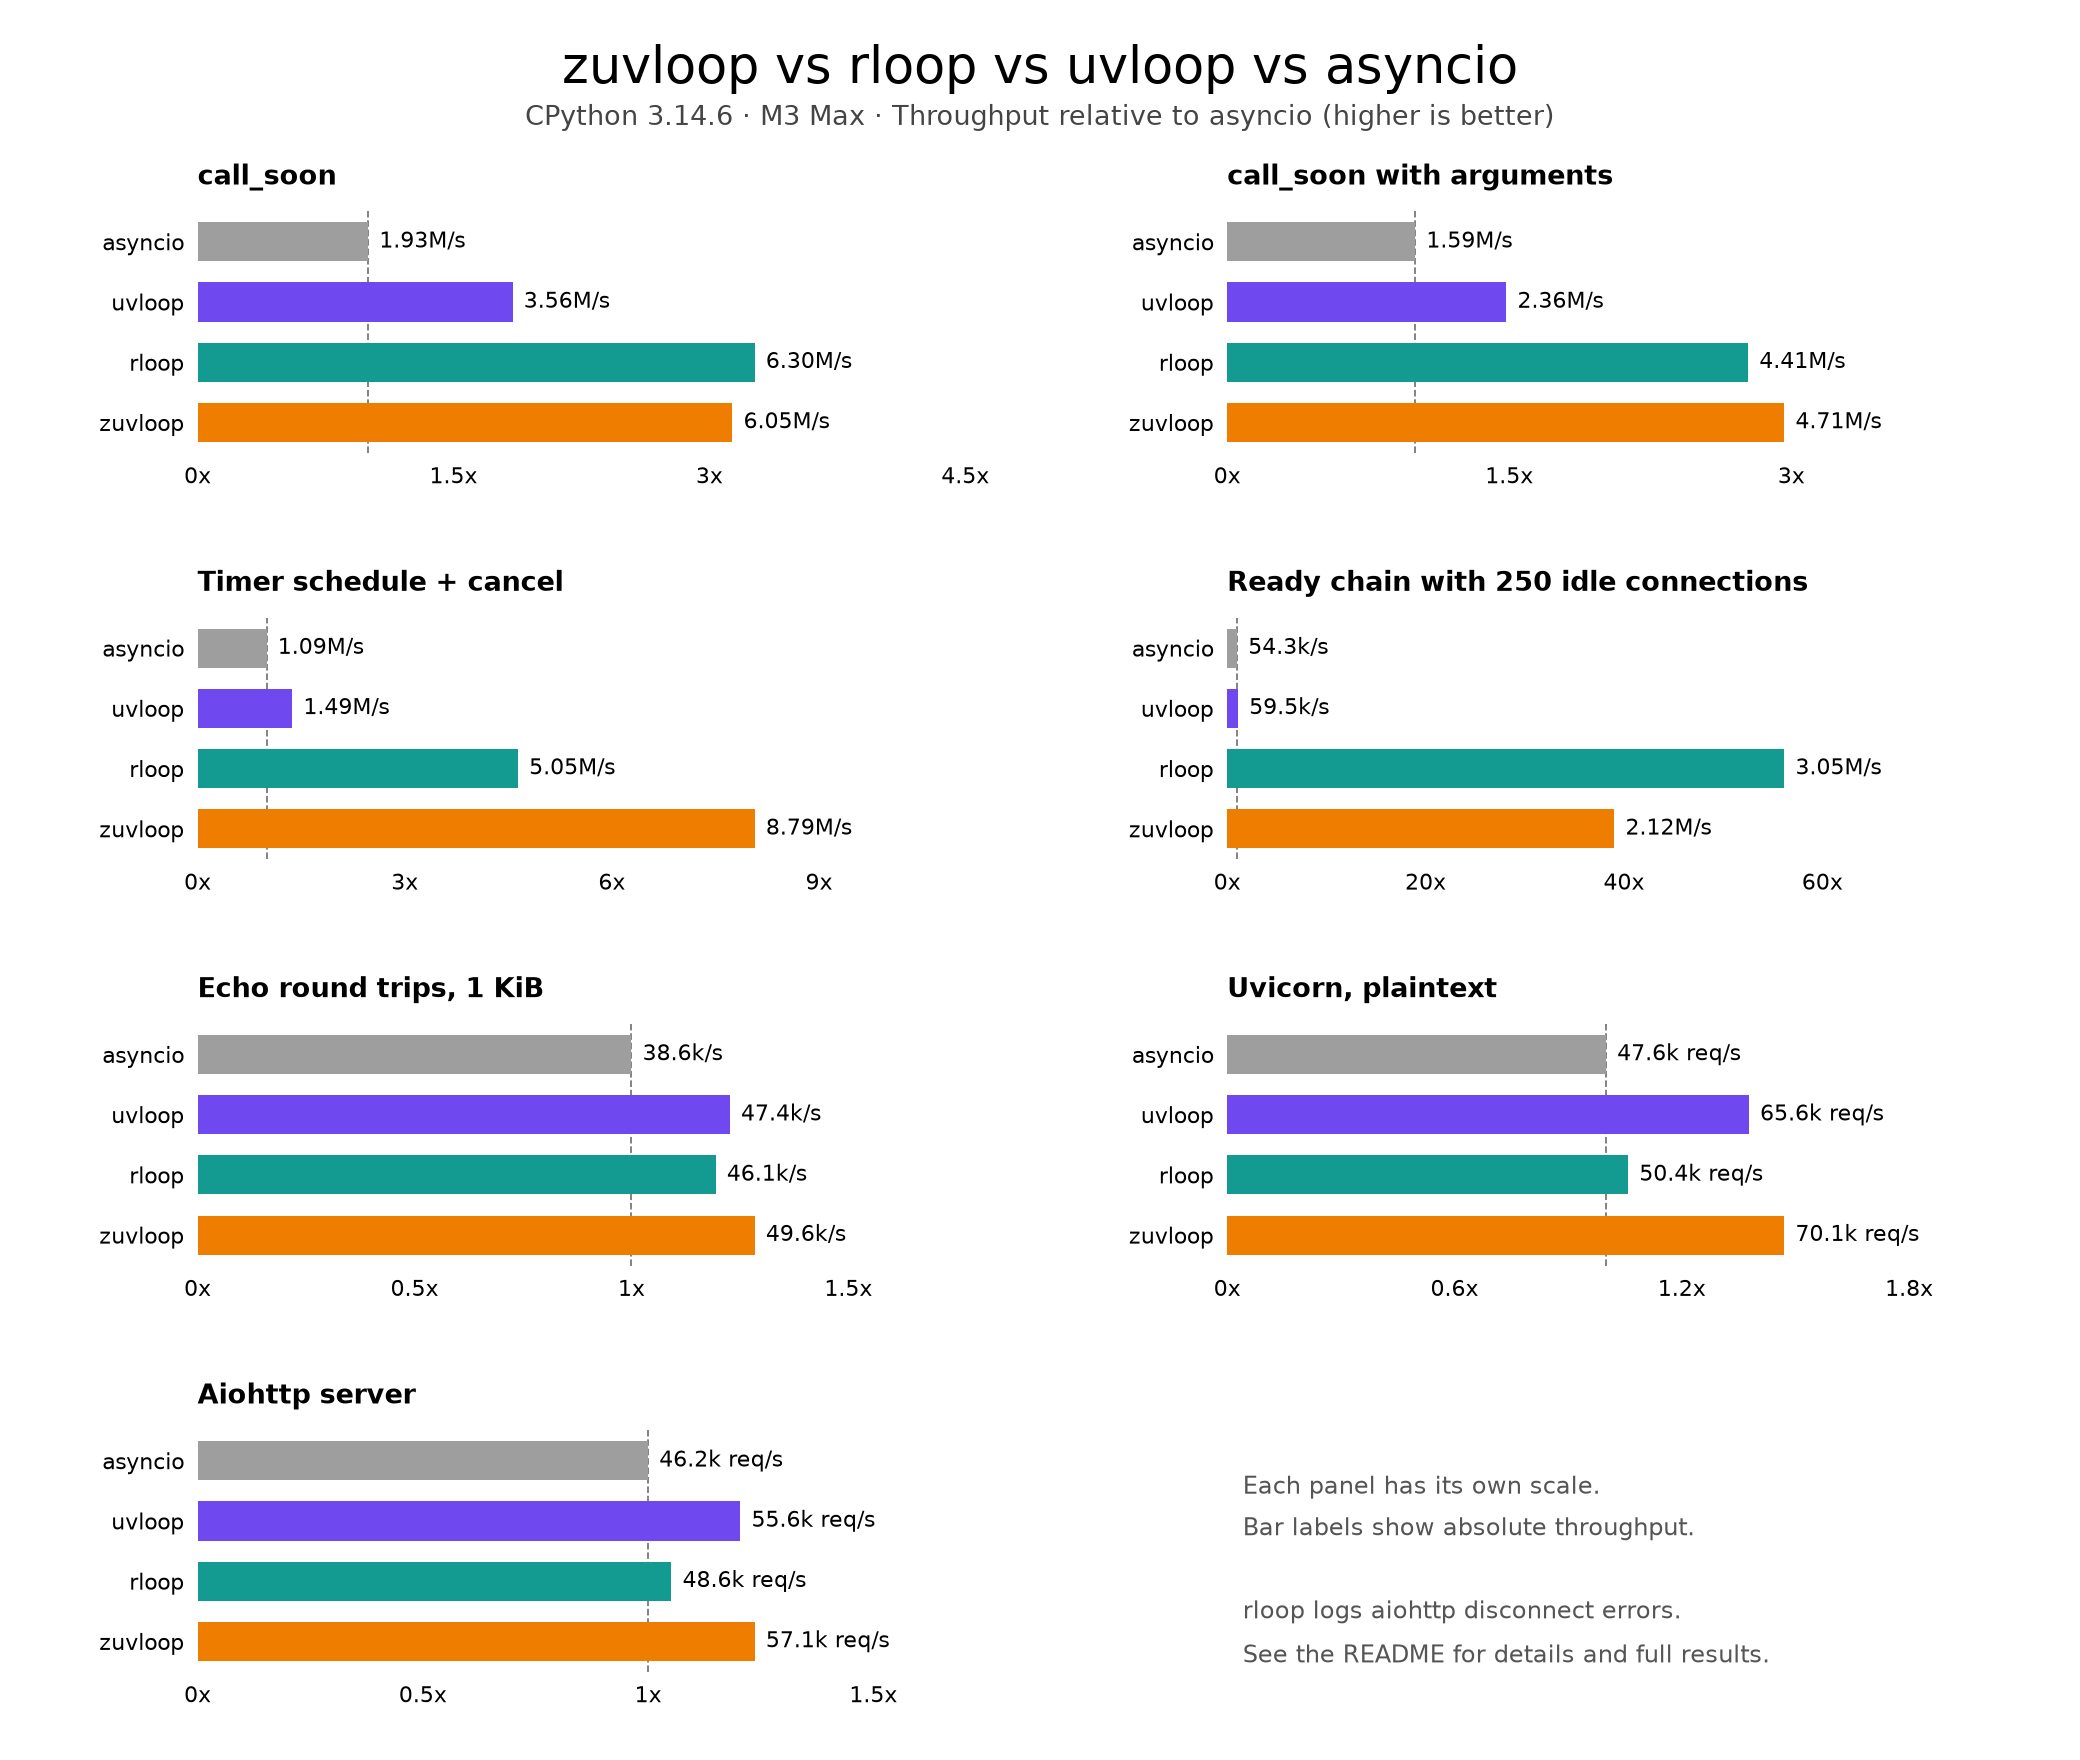
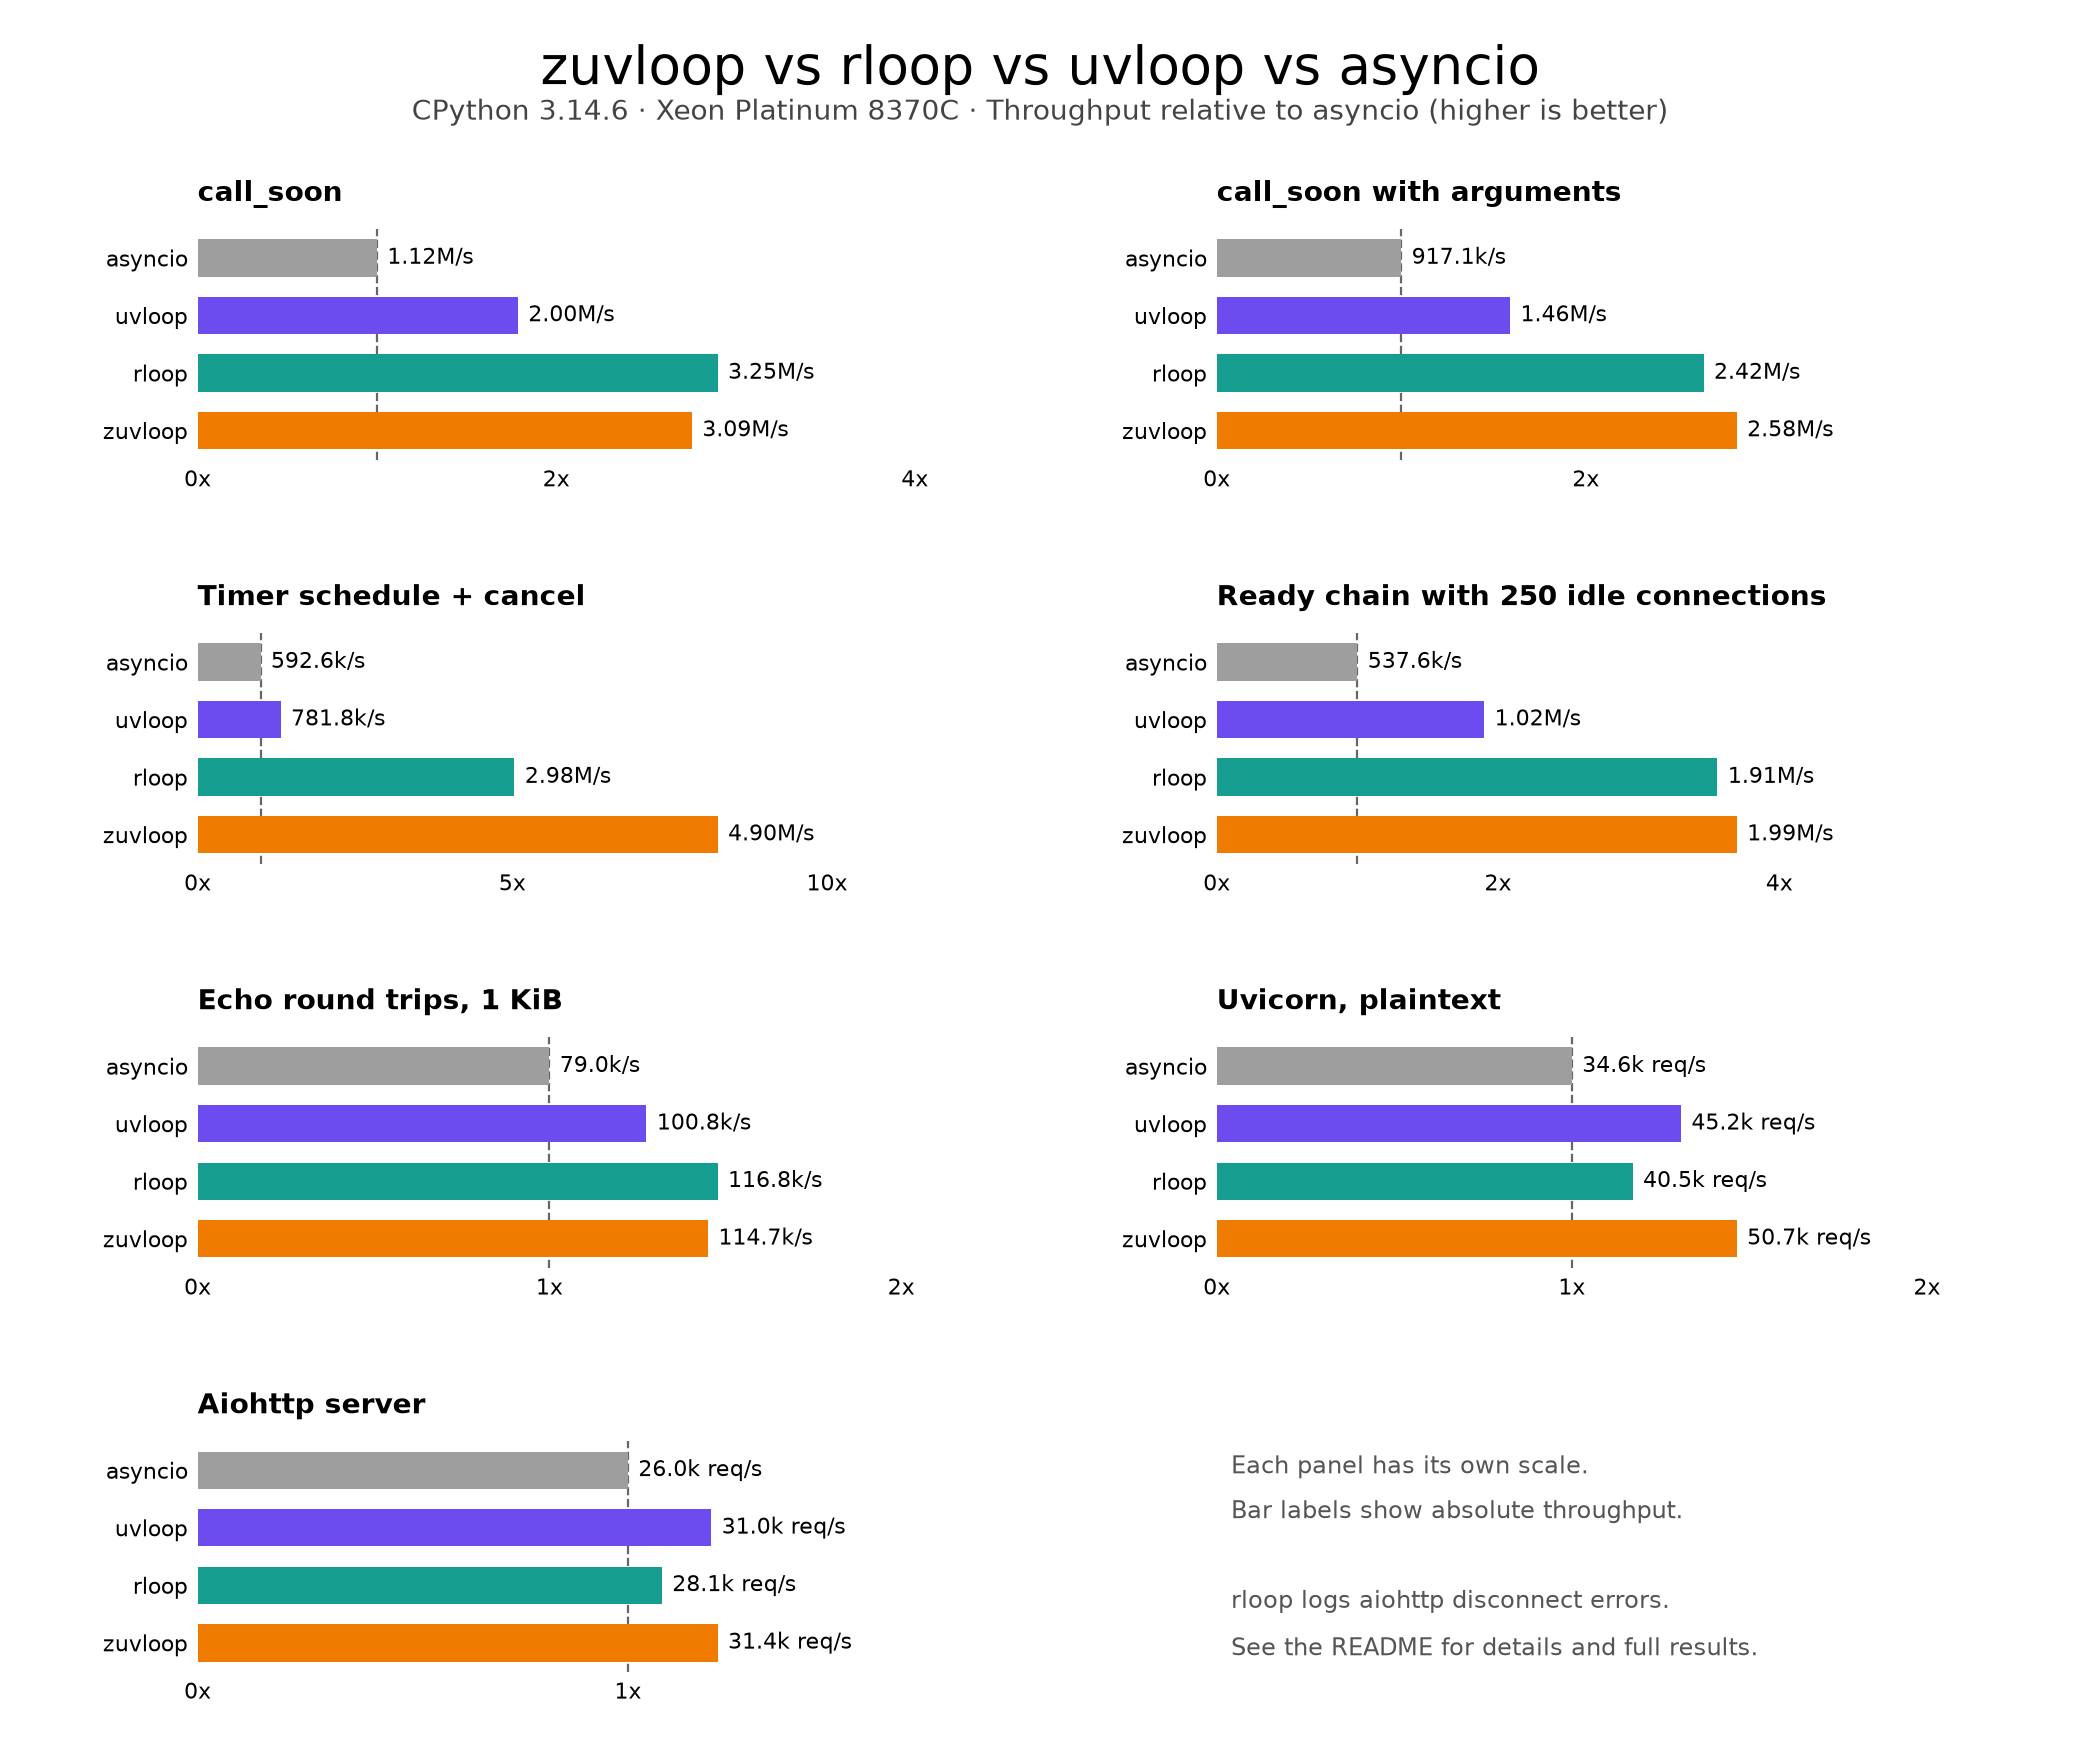
Refresh the README benchmarks on an isolated Azure VM (#249)

diff --git a/README.md b/README.md
@@ -31,30 +31,31 @@ The key features are:
 </p>
 
 Throughput relative to stock asyncio (higher is better), measured with the suite in
-`benchmarks/` on an M3 Max, macOS 26.6.2, CPython 3.14.6, and libuv 1.51.0. The comparison uses
-uvloop 0.22.1 and rloop 0.5.0. Each result is the median of seven interleaved in-process runs or five
-interleaved HTTP runs. The chart shows selected benchmarks, with a separate scale for each panel.
-Labels show absolute throughput. See the [recorded results and commands](benchmarks/results/readme-2026-09-08.txt).
+`benchmarks/` on an Azure `Standard_E104is_v5` VM: an Intel Xeon Platinum 8370C with 104 vCPUs,
+Ubuntu 24.04, CPython 3.14.6, and libuv 1.53.0. The comparison uses uvloop 0.22.1 and rloop 0.5.0.
+Each result is the median of seven interleaved in-process runs or five interleaved HTTP runs. The
+chart shows selected benchmarks, with a separate scale for each panel. Labels show absolute
+throughput. See the [recorded results and commands](benchmarks/results/readme-2026-11-16.txt).
 
-These measurements come from a shared machine with background load. Check the recorded
-run-to-run variation before treating small differences as meaningful.
+The VM size is isolated: no other tenant shares its hardware, and nothing else ran during the
+measurements. Check the recorded run-to-run variation before treating small differences as meaningful.
 
 | Benchmark | asyncio | uvloop | rloop | zuvloop |
 | --- | ---: | ---: | ---: | ---: |
-| `call_soon` | 1.93M/s | 3.56M/s | **6.30M/s** | 6.05M/s |
-| `call_soon` with arguments | 1.59M/s | 2.36M/s | 4.41M/s | **4.71M/s** |
-| `call_soon_threadsafe` | 407.7k/s | 4.14M/s | **11.37M/s** | 9.21M/s |
-| timer schedule + cancel | 1.09M/s | 1.49M/s | 5.05M/s | **8.79M/s** |
-| completed timer rounds | 67.4k/s | 75.0k/s | **3.39M/s** | 3.10M/s |
-| prebuilt due timer batch | 1.35M/s | 2.68M/s | **9.58M/s** | 5.59M/s |
-| ready chain with 250 idle connections | 54.3k/s | 59.5k/s | **3.05M/s** | 2.12M/s |
-| bulk stream | 5.1 GiB/s | 5.9 GiB/s | 5.9 GiB/s | **6.1 GiB/s** |
-| echo round trips, 1 KiB | 38.6k/s | 47.4k/s | 46.1k/s | **49.6k/s** |
-| uvicorn, plaintext | 47.6k req/s | 65.6k req/s | 50.4k req/s | **70.1k req/s** |
-| uvicorn, 10 KiB body | 43.7k req/s | 63.2k req/s | 49.6k req/s | **68.5k req/s** |
-| aiohttp server | 46.2k req/s | 55.6k req/s | 48.6k req/s | **57.1k req/s** |
-| aiohttp client | 11.2k req/s | **13.2k req/s** | 12.7k req/s | 12.9k req/s |
-| `getaddrinfo`, numeric host | 22.7k/s | 1.40M/s | 1.01M/s | **1.63M/s** |
+| `call_soon` | 1.12M/s | 2.00M/s | **3.25M/s** | 3.09M/s |
+| `call_soon` with arguments | 917.1k/s | 1.46M/s | 2.42M/s | **2.58M/s** |
+| `call_soon_threadsafe` | 199.3k/s | 2.88M/s | **6.36M/s** | 5.09M/s |
+| timer schedule + cancel | 592.6k/s | 781.8k/s | 2.98M/s | **4.90M/s** |
+| completed timer rounds | 450.7k/s | 1.30M/s | 2.04M/s | **4.57M/s** |
+| prebuilt due timer batch | 783.4k/s | 1.79M/s | 6.59M/s | **6.73M/s** |
+| ready chain with 250 idle connections | 537.6k/s | 1.02M/s | 1.91M/s | **1.99M/s** |
+| bulk stream | 3.8 GiB/s | 4.2 GiB/s | **5.4 GiB/s** | 5.0 GiB/s |
+| echo round trips, 1 KiB | 79.0k/s | 100.8k/s | **116.8k/s** | 114.7k/s |
+| uvicorn, plaintext | 34.6k req/s | 45.2k req/s | 40.5k req/s | **50.7k req/s** |
+| uvicorn, 10 KiB body | 32.6k req/s | 44.1k req/s | 36.5k req/s | **47.7k req/s** |
+| aiohttp server | 26.0k req/s | 31.0k req/s | 28.1k req/s | **31.4k req/s** |
+| aiohttp client | 6.4k req/s | 8.3k req/s | 8.5k req/s | **8.7k req/s** |
+| `getaddrinfo`, numeric host | 21.8k/s | 732.6k/s | 559.1k/s | **807.0k/s** |
 
 With rloop, the aiohttp server benchmark logs `TypeError` callback errors when the load generator
 disconnects at its deadline. The throughput above includes this behavior.
